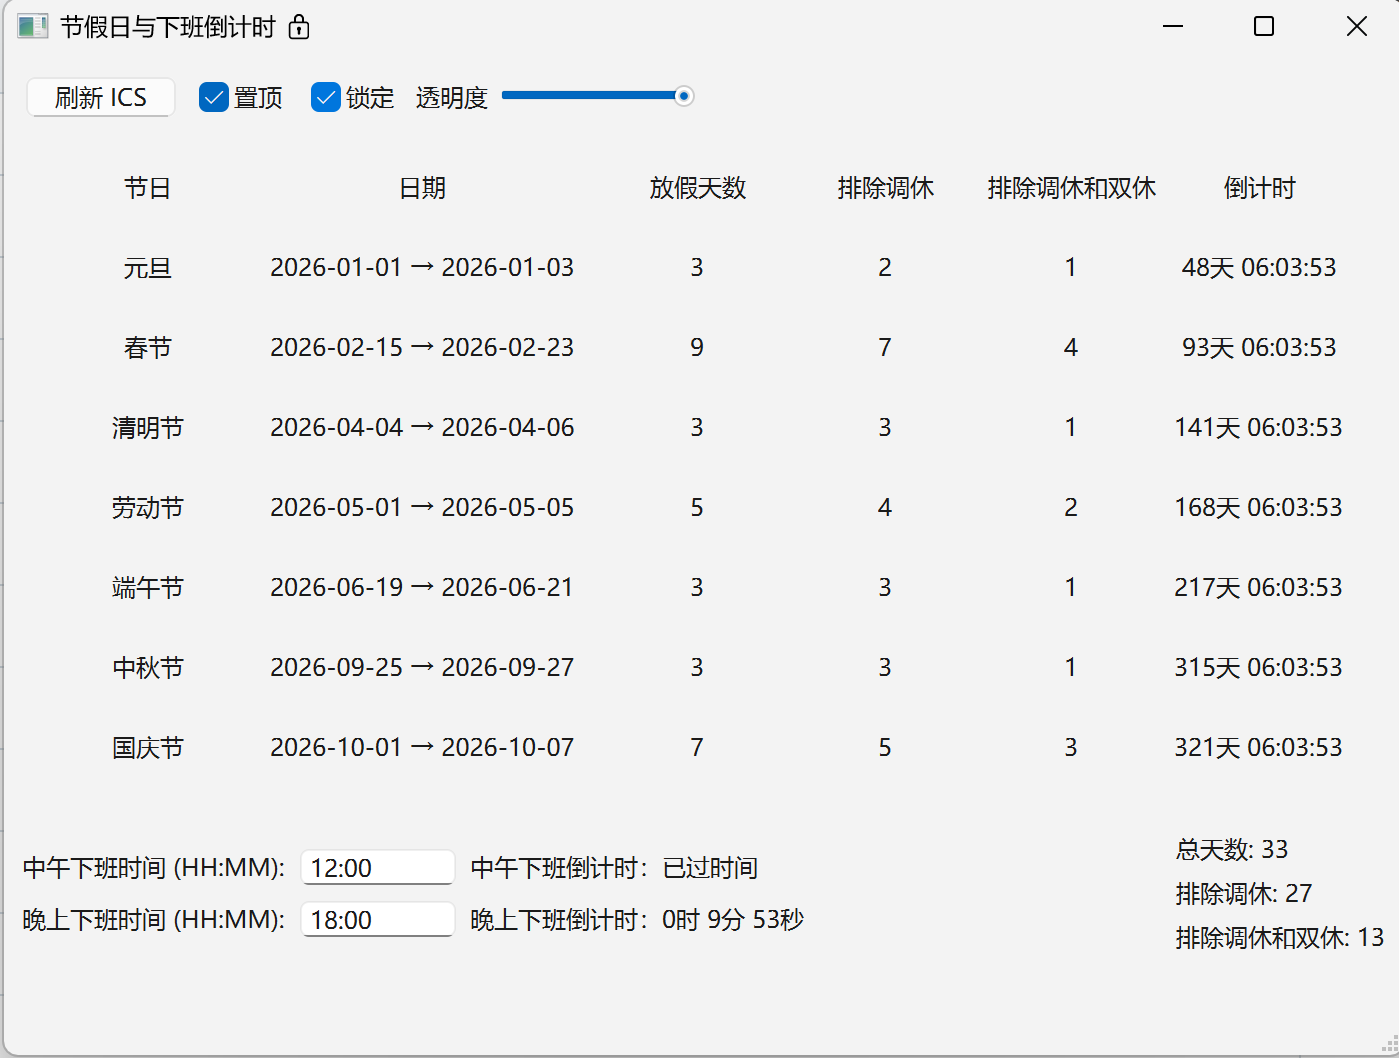
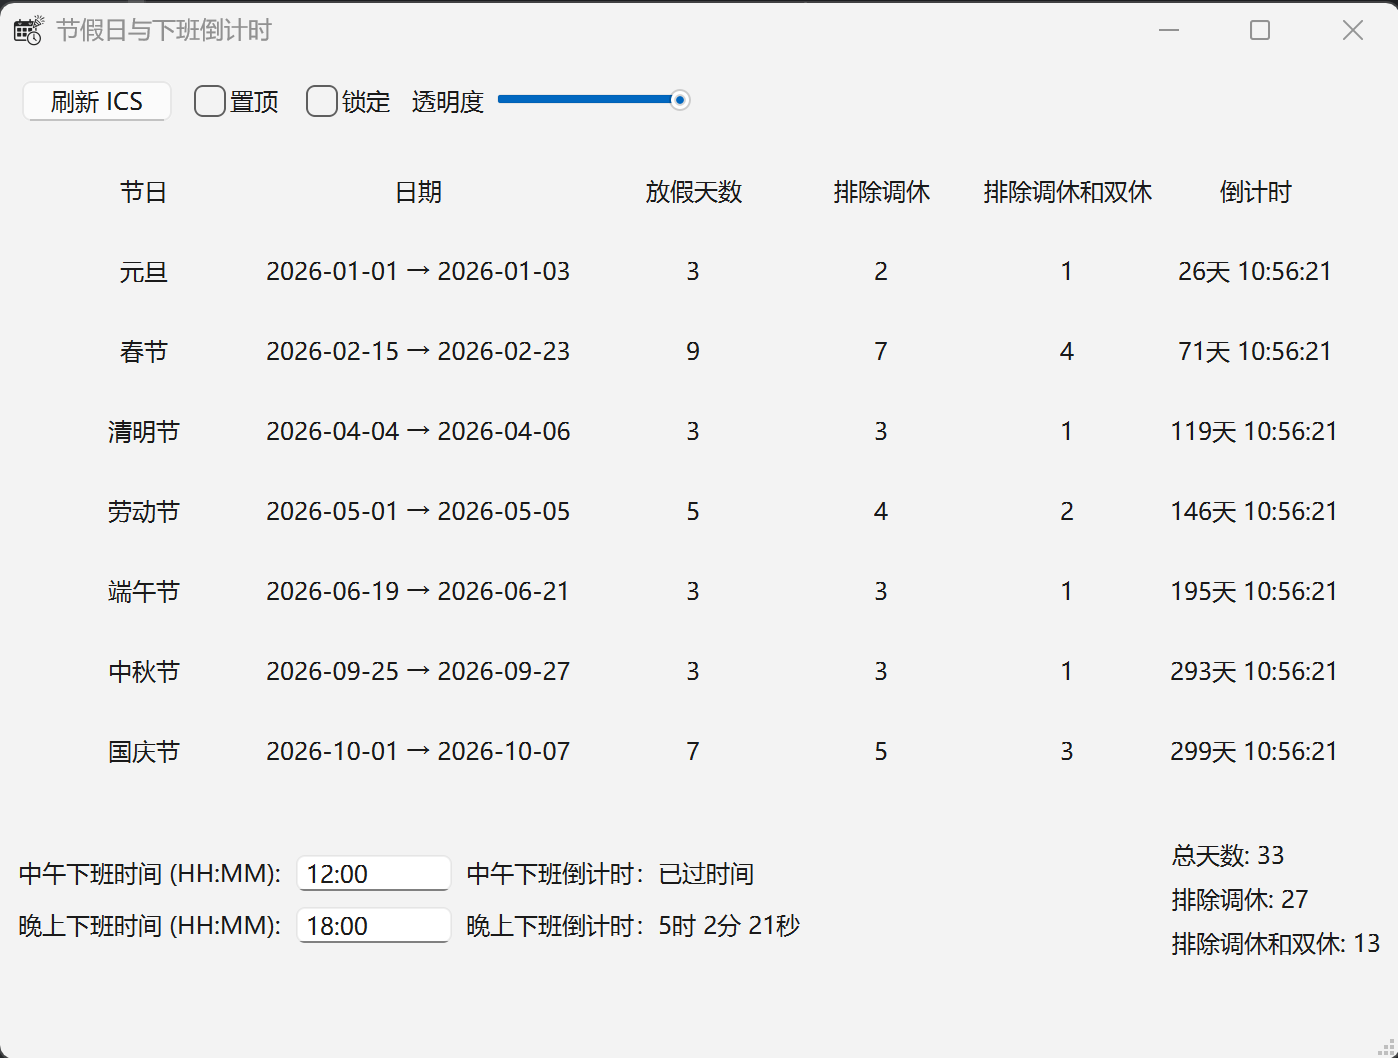
新增图标
此外准备打包v1.3新版

diff --git a/ui/main_window.py b/ui/main_window.py
@@ -1,9 +1,11 @@
 # ui/main_window.py
+import sys
+
 import requests
 from PyQt6 import QtWidgets, QtGui, QtCore
 from typing import List
 
-from PyQt6.QtWidgets import QTableWidgetItem
+from PyQt6.QtWidgets import QTableWidgetItem, QSystemTrayIcon, QApplication
 
 from holidays.parser import Holiday
 from holidays.fetcher import fetch_ics
@@ -16,6 +18,13 @@ import os
 
 CACHE_PATH = os.path.abspath(os.path.join(os.path.dirname(__file__), "..", "holiday_data.ics"))
 CONFIG_PATH = os.path.abspath(os.path.join(os.path.dirname(__file__), "..", "config.json"))
+
+
+def resource_path(relative_path):
+    """获取打包后资源的正确路径"""
+    if hasattr(sys, '_MEIPASS'):
+        return os.path.join(sys._MEIPASS, relative_path)
+    return os.path.join(os.path.abspath("."), relative_path)
 
 
 class HolidayItemWidget(QtWidgets.QWidget):
@@ -119,6 +128,8 @@ class MainWindow(QtWidgets.QMainWindow):
         self.load_ics_and_refresh()
         self._dragging = False
         self._drag_pos = None
+        icon_path = resource_path("icon.ico")
+        self.setWindowIcon(QtGui.QIcon(icon_path))
 
     # === 新增：统一的安全弹窗函数 ===
     def show_safe_dialog(self, title: str, text: str, icon=QtWidgets.QMessageBox.Icon.Information):
@@ -272,7 +283,11 @@ class MainWindow(QtWidgets.QMainWindow):
 
         # 托盘
         self.tray = QtWidgets.QSystemTrayIcon(self)
-        icon = QtGui.QIcon.fromTheme("calendar")
+        icon_path = resource_path("icon.ico")
+        icon = QtGui.QIcon(icon_path)
+
+
+
         if icon.isNull():
             pix = QtGui.QPixmap(32, 32)
             pix.fill(QtGui.QColor("orange"))
@@ -282,7 +297,7 @@ class MainWindow(QtWidgets.QMainWindow):
         show_action = menu.addAction("显示主界面")
         show_action.triggered.connect(self.show_and_raise)
         exit_action = menu.addAction("退出")
-        exit_action.triggered.connect(QtWidgets.QApplication.quit)
+        exit_action.triggered.connect(self.force_quit)
         self.tray.setContextMenu(menu)
         self.tray.activated.connect(self.on_tray_activated)
         self.tray.show()
@@ -383,6 +398,7 @@ class MainWindow(QtWidgets.QMainWindow):
 
     def show_and_raise(self):
         self.show()
+        self.showNormal()
         self.raise_()
         self.activateWindow()
 
@@ -391,10 +407,23 @@ class MainWindow(QtWidgets.QMainWindow):
             self.show_and_raise()
 
     def closeEvent(self, event):
+        if getattr(self, "_force_quit", False):
+            event.accept()
+            return
         event.ignore()
         self.hide()
         self.tray.showMessage("节假日倒计时", "程序已最小化到托盘，双击图标可以恢复。",
                               QtWidgets.QSystemTrayIcon.MessageIcon.Information, 2000)
+
+
+    def force_quit(self):
+        self._force_quit = True
+        self.tray.hide()
+        QApplication.quit()
+
+
+
+
 
     def start_timers(self):
         self.ui_timer = QtCore.QTimer(self)

diff --git a/README.md b/README.md
@@ -142,4 +142,5 @@ HolidayCountdown/
    * 🔒 锁定窗口
    * 🌫 透明度调节
 
-
+## 📜 License
+本项目采用 Creative Commons Attribution-NonCommercial 4.0 International (CC BY-NC 4.0) 许可证发布。
